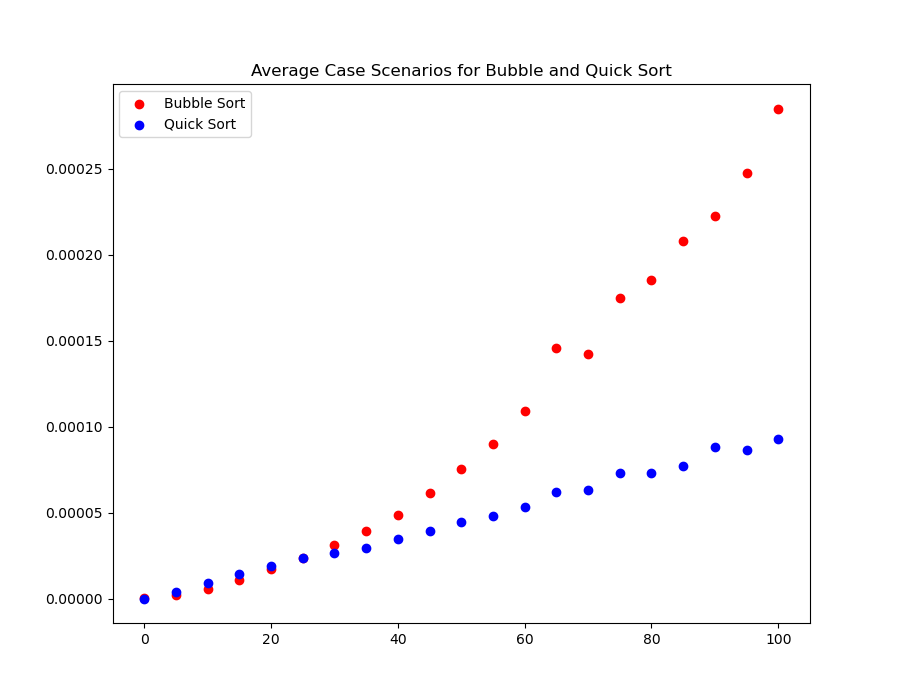
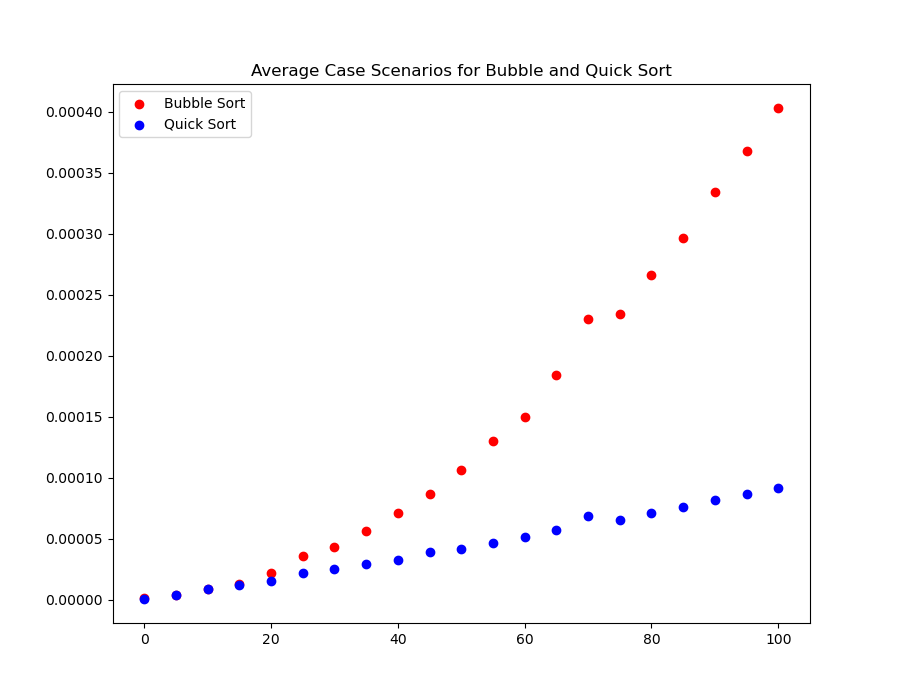
Fixed timing code

diff --git a/ex2.py b/ex2.py
@@ -1,7 +1,7 @@
 import random
 import timeit
 from matplotlib import pyplot as plt
-import numpy as np
+#import numpy as np
 
 import sys
 sys.setrecursionlimit(2000)
@@ -67,58 +67,84 @@ def quicksort_best(arr, low, high):
         quicksort_best(arr, pivot_index+1, high)
 
 list_lengths = [x for x in range(0, 105, 5)]
-bubble_best_times = []
-bubble_avg_times = []
-bubble_worst_times = []
+bubble_best_avg = []
+bubble_avg_avg = []
+bubble_worst_avg =[]
 
-quicksort_best_times = []
-quicksort_avg_times = []
-quicksort_worst_times = []
-
+quicksort_best_avg = []
+quicksort_avg_avg = []
+quicksort_worst_avg =[]
 
 for list_length in list_lengths:
     numbers = [x for x in range(list_length)]
     n = len(numbers)
 
-    numbers_reverse = numbers[::-1]
-    numbers_shuffle = random.sample(numbers, n)
+    bubble_best_times = []
+    bubble_avg_times = []
+    bubble_worst_times = []
 
-    #Best case for bubble sort: Array is already sorted
-    #Best case for quick sort: Array is partitionined in half every time
-    bubble_best_tm = timeit.timeit(lambda: bubble_sort(numbers), number=100)
-    bubble_best_times.append(bubble_best_tm / 100)
-    quicksort_best_tm = timeit.timeit(lambda: quicksort_best(numbers, 0, n-1), number=100)
-    quicksort_best_times.append(quicksort_best_tm / 100)
+    quicksort_best_times = []
+    quicksort_avg_times = []
+    quicksort_worst_times = []
 
-    bubble_avg_tm = timeit.timeit(lambda: bubble_sort(numbers_shuffle), number=100)
-    bubble_avg_times.append(bubble_avg_tm / 100)
-    quicksort_avg_tm = timeit.timeit(lambda: quicksort_best(numbers_shuffle, 0, n-1), number=100)
-    quicksort_avg_times.append(quicksort_avg_tm / 100)
+    for i in range(100):
+        numbers_reverse = numbers[::-1]
+        numbers_shuffle = random.sample(numbers, n)
 
-    #Worst case for bubble sort: Array is sorted in reverse
-    #Worst case for quick sort: Each partition results in a subarray of size 1
-    bubble_worst_tm = timeit.timeit(lambda: bubble_sort(numbers_reverse), number=100)
-    bubble_worst_times.append(bubble_worst_tm / 100)
-    quicksort_worst_tm = timeit.timeit(lambda: quicksort(numbers_reverse, 0, n-1), number=100)
-    quicksort_worst_times.append(quicksort_worst_tm / 100)
+        numbers_copy = numbers[:]
+        numbers_reverse_copy = numbers_reverse[:]
+        numbers_shuffle_copy = numbers_shuffle[:]
+
+        #Best case for bubble sort: Array is already sorted
+        #Best case for quick sort: Array is partitionined in half every time
+        bubble_best_tm = timeit.timeit(lambda: bubble_sort(numbers), number=1)
+        bubble_best_times.append(bubble_best_tm)
+        quicksort_best_tm = timeit.timeit(lambda: quicksort_best(numbers_copy, 0, n-1), number=1)
+        quicksort_best_times.append(quicksort_best_tm)
+
+        bubble_avg_tm = timeit.timeit(lambda: bubble_sort(numbers_shuffle), number=1)
+        bubble_avg_times.append(bubble_avg_tm)
+        quicksort_avg_tm = timeit.timeit(lambda: quicksort(numbers_shuffle_copy, 0, n-1), number=1)
+        quicksort_avg_times.append(quicksort_avg_tm)
+
+        #Worst case for bubble sort: Array is sorted in reverse
+        #Worst case for quick sort: Each partition results in a subarray of size 1
+        bubble_worst_tm = timeit.timeit(lambda: bubble_sort(numbers_reverse), number=1)
+        bubble_worst_times.append(bubble_worst_tm)
+        quicksort_worst_tm = timeit.timeit(lambda: quicksort(numbers_reverse_copy, 0, n-1), number=1)
+        quicksort_worst_times.append(quicksort_worst_tm)
+    
+    bubble_best_avg_tm = sum(bubble_best_times) / len(bubble_best_times)
+    bubble_best_avg.append(bubble_best_avg_tm)
+    bubble_avg_avg_tm = sum(bubble_avg_times) / len(bubble_avg_times)
+    bubble_avg_avg.append(bubble_avg_avg_tm)
+    bubble_worst_avg_tm = sum(bubble_worst_times) / len(bubble_worst_times)
+    bubble_worst_avg.append(bubble_worst_avg_tm)
+
+    quicksort_best_avg_tm = sum(quicksort_best_times) / len(quicksort_best_times)
+    quicksort_best_avg.append(quicksort_best_avg_tm)
+    quicksort_avg_avg_tm = sum(quicksort_avg_times) / len(quicksort_avg_times)
+    quicksort_avg_avg.append(quicksort_avg_avg_tm)
+    quicksort_worst_avg_tm = sum(quicksort_worst_times) / len(quicksort_worst_times)
+    quicksort_worst_avg.append(quicksort_worst_avg_tm)
 
 plt.figure(figsize=(9, 7))
-plt.scatter(range(0, 105, 5), bubble_best_times, color='r', label="Bubble Sort")
-plt.scatter(range(0, 105, 5), quicksort_best_times, color='b', label="Quick Sort")
+plt.scatter(range(0, 105, 5), bubble_best_avg, color='r', label="Bubble Sort")
+plt.scatter(range(0, 105, 5), quicksort_best_avg, color='b', label="Quick Sort")
 plt.title("Best Case Scenarios for Bubble and Quick Sort")
 plt.legend()
 plt.savefig("ex2_best.png")
 
 plt.figure(figsize=(9, 7))
-plt.scatter(range(0, 105, 5), bubble_avg_times, color='r', label="Bubble Sort")
-plt.scatter(range(0, 105, 5), quicksort_avg_times, color='b', label="Quick Sort")
+plt.scatter(range(0, 105, 5), bubble_avg_avg, color='r', label="Bubble Sort")
+plt.scatter(range(0, 105, 5), quicksort_avg_avg, color='b', label="Quick Sort")
 plt.title("Average Case Scenarios for Bubble and Quick Sort")
 plt.legend()
 plt.savefig("ex2_avg.png")
 
 plt.figure(figsize=(9, 7))
-plt.scatter(range(0, 105, 5), bubble_worst_times, color='r', label="Bubble Sort")
-plt.scatter(range(0, 105, 5), quicksort_worst_times, color='b', label="Quick Sort")
+plt.scatter(range(0, 105, 5), bubble_worst_avg, color='r', label="Bubble Sort")
+plt.scatter(range(0, 105, 5), quicksort_worst_avg, color='b', label="Quick Sort")
 plt.title("Worst Case Scenarios for Bubble and Quick Sort")
 plt.legend()
 plt.savefig("ex2_worst.png")
